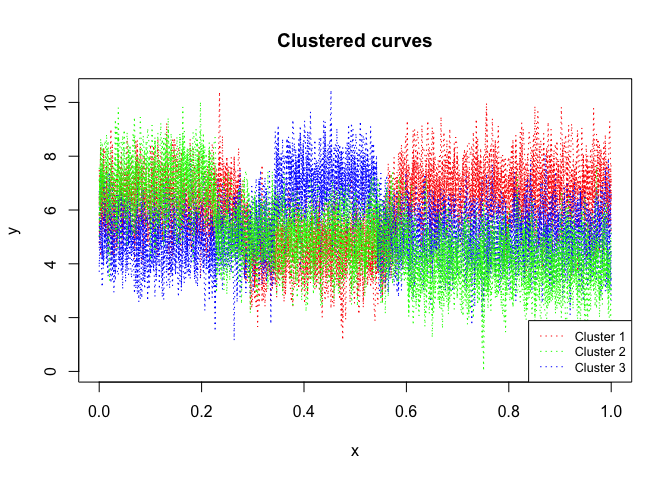
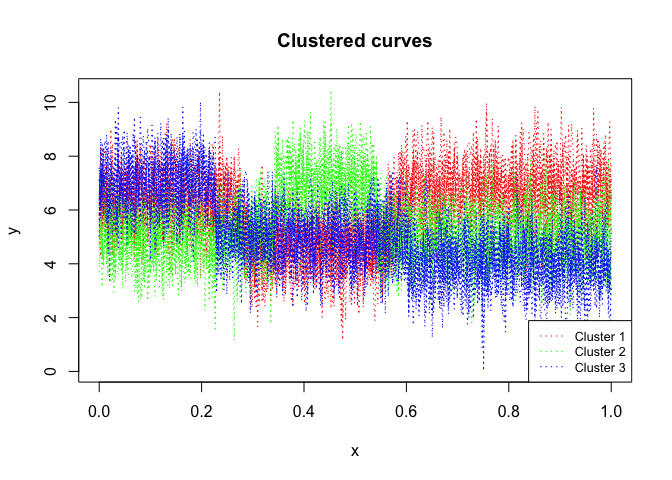
Add field 'order_constraint' ParamMixHMM class
- ParamMixHMM class: Add field 'order_constraint';
- ModelMixHMM class: Update 'summary' method;
- Update documentation.

Changed region(s): [[0.125, 0.25, 0.9375, 0.6875]]

diff --git a/README.md b/README.md
@@ -62,13 +62,13 @@ verbose <- TRUE
 mixhmm <- emMixHMM(t(toydataset[,2:ncol(toydataset)]), K, R, variance_type,
                    ordered_states, init_kmeans, n_tries, max_iter, threshold, 
                    verbose)
-#> EM: Iteration : 1 || log-likelihood : -19054.7157954833
-#> EM: Iteration : 2 || log-likelihood : -15386.7973253636
-#> EM: Iteration : 3 || log-likelihood : -15141.8435629464
-#> EM: Iteration : 4 || log-likelihood : -15058.7251666378
-#> EM: Iteration : 5 || log-likelihood : -15055.5058566489
-#> EM: Iteration : 6 || log-likelihood : -15055.4877310423
-#> EM: Iteration : 7 || log-likelihood : -15055.4876146553
+#> EM - mixHMMs: Iteration: 1 | log-likelihood: -19054.7157954833
+#> EM - mixHMMs: Iteration: 2 | log-likelihood: -15386.7973253636
+#> EM - mixHMMs: Iteration: 3 | log-likelihood: -15141.8435629464
+#> EM - mixHMMs: Iteration: 4 | log-likelihood: -15058.7251666378
+#> EM - mixHMMs: Iteration: 5 | log-likelihood: -15055.5058566489
+#> EM - mixHMMs: Iteration: 6 | log-likelihood: -15055.4877310423
+#> EM - mixHMMs: Iteration: 7 | log-likelihood: -15055.4876146553
 
 mixhmm$summary()
 #> -----------------------
@@ -78,7 +78,7 @@ mixhmm$summary()
 #> MixHMM model with K = 3 clusters and R = 3 regimes:
 #> 
 #>  log-likelihood nu       AIC       BIC
-#>       -15055.49 44 -15099.49 -15130.31
+#>       -15055.49 41 -15096.49 -15125.21
 #> 
 #> Clustering table (Number of curves in each clusters):
 #> 
@@ -91,43 +91,43 @@ mixhmm$summary()
 #> 
 #> 
 #> -------------------
-#> Cluster 1 (K = 1):
+#> Cluster 1 (k = 1):
 #> 
 #> Means:
 #> 
-#>     R = 1    R = 2    R = 3
+#>     r = 1    r = 2    r = 3
 #>  6.319189 4.583954 6.722627
 #> 
 #> Variances:
 #> 
-#>      R = 1     R = 2   R = 3
-#>  0.9571803 0.9504731 1.01553
+#>  Sigma2(r = 1) Sigma2(r = 2) Sigma2(r = 3)
+#>      0.9571803     0.9504731       1.01553
 #> 
 #> -------------------
-#> Cluster 2 (K = 2):
+#> Cluster 2 (k = 2):
 #> 
 #> Means:
 #> 
-#>    R = 1    R = 2    R = 3
-#>  7.00202 4.964273 3.979626
-#> 
-#> Variances:
-#> 
-#>      R = 1     R = 2     R = 3
-#>  0.9858726 0.9884542 0.9651437
-#> 
-#> -------------------
-#> Cluster 3 (K = 3):
-#> 
-#> Means:
-#> 
-#>     R = 1    R = 2    R = 3
+#>     r = 1    r = 2    r = 3
 #>  4.987066 6.963998 4.987279
 #> 
 #> Variances:
 #> 
-#>      R = 1    R = 2    R = 3
-#>  0.9578459 1.045573 0.952294
+#>  Sigma2(r = 1) Sigma2(r = 2) Sigma2(r = 3)
+#>      0.9578459      1.045573      0.952294
+#> 
+#> -------------------
+#> Cluster 3 (k = 3):
+#> 
+#> Means:
+#> 
+#>    r = 1    r = 2    r = 3
+#>  7.00202 4.964273 3.979626
+#> 
+#> Variances:
+#> 
+#>  Sigma2(r = 1) Sigma2(r = 2) Sigma2(r = 3)
+#>      0.9858726     0.9884542     0.9651437
 
 mixhmm$plot()
 ```
